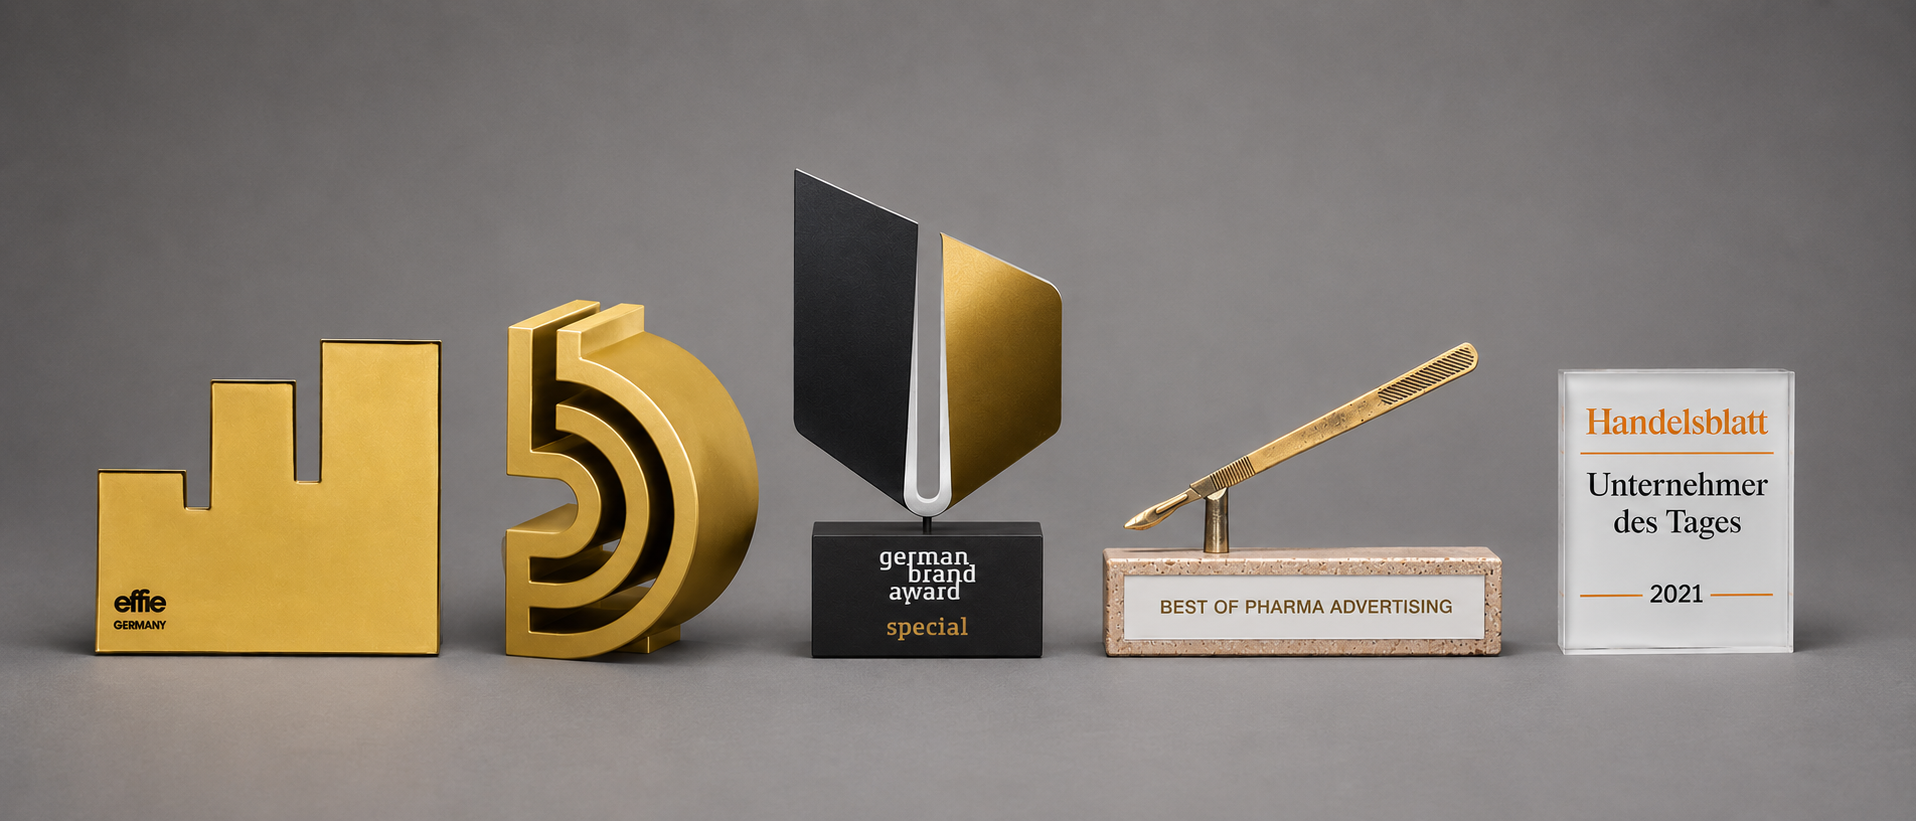
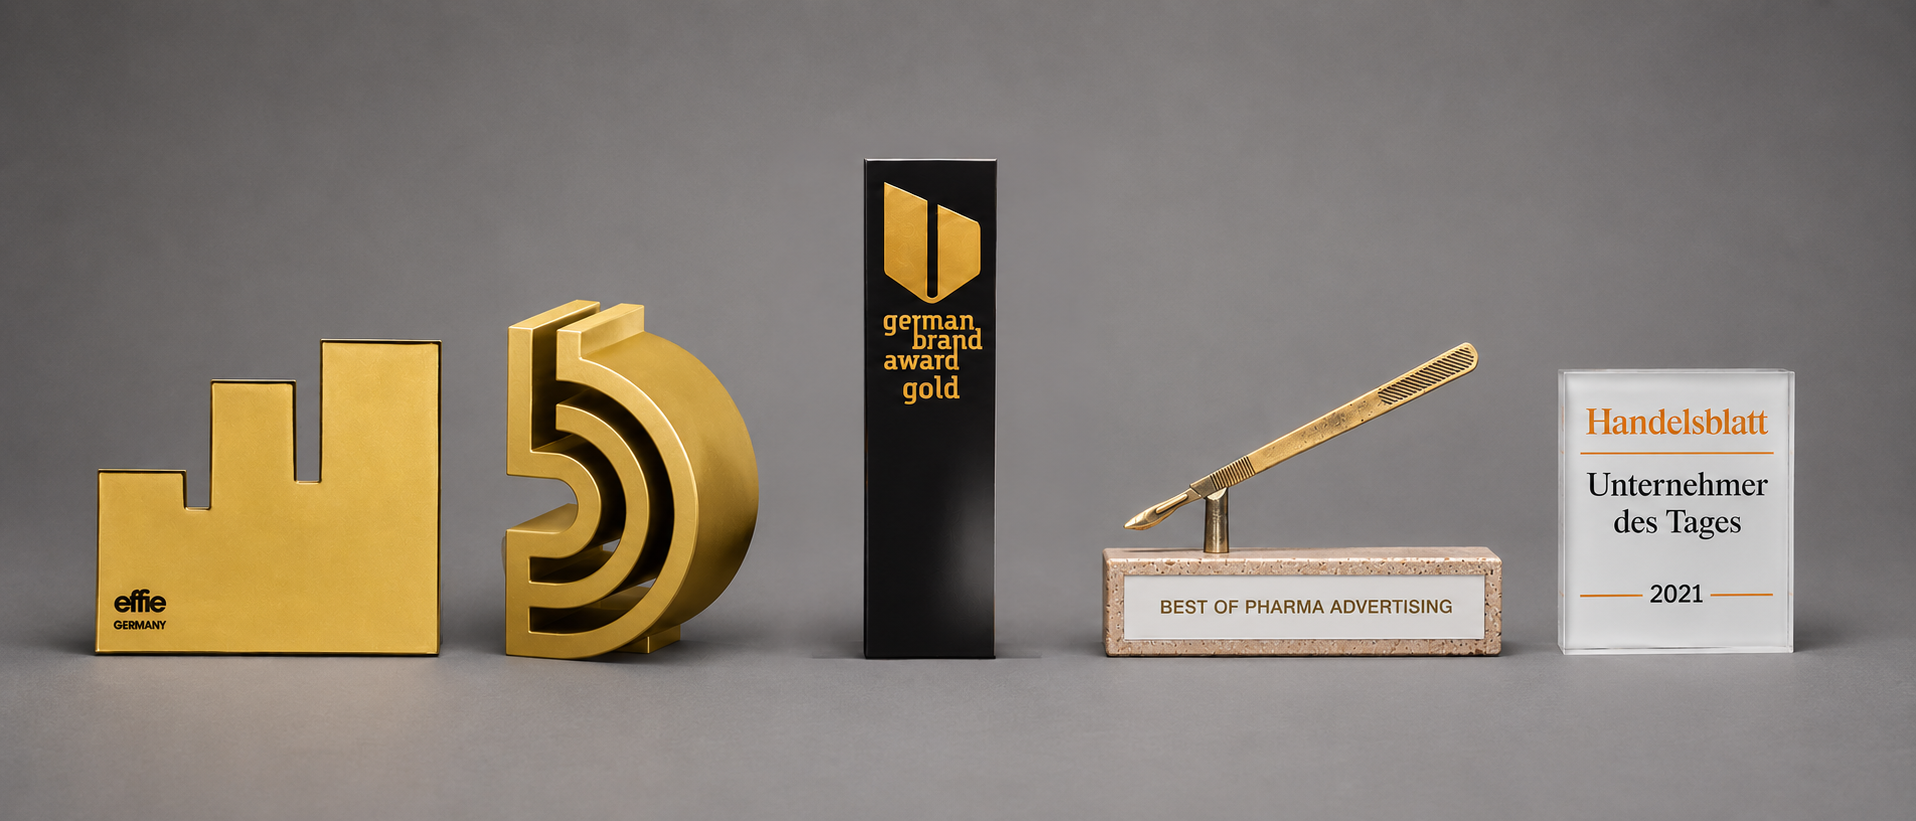
Award-Bild Desktop aktualisiert

Changed region(s): [[0.4003, 0.1827, 0.5543, 0.8222]]

diff --git a/index.html b/index.html
@@ -824,8 +824,7 @@
     <span class="kicker">Auszeichnungen</span>
     <h2>Prämiert für wirksame Marken- und Wachstumsarbeit.</h2>
     <picture>
-      <source media="(max-width: 760px)" srcset="images/Bild%20Awards%20mobile%20German%20Brand%20Award%20Gold.png?v=20261024-5">
-      <img src="images/Bild%20Awards%20f%C3%BCr%20Website%202.png?v=20261024-5" alt="Auszeichnungen">
+      <img src="images/awards-auszeichnungen.png" alt="Auszeichnungen">
     </picture>
   </div>
 </section>
